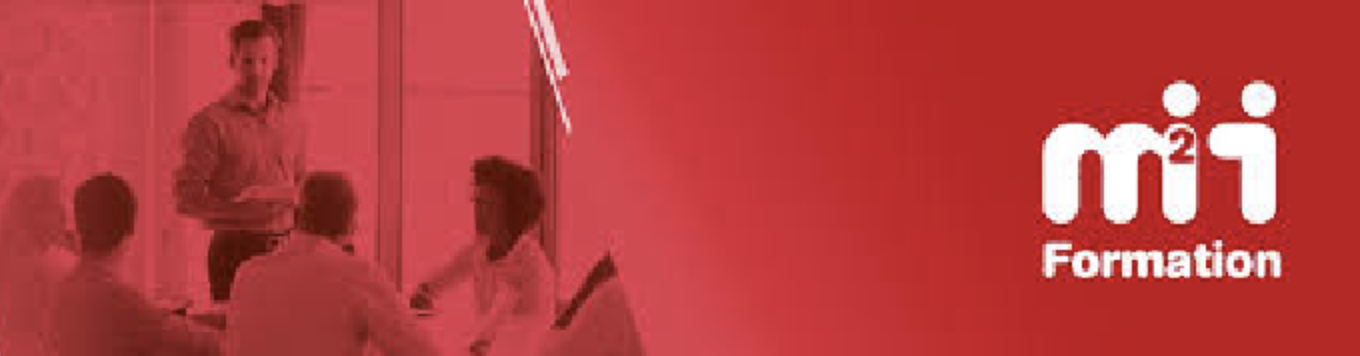
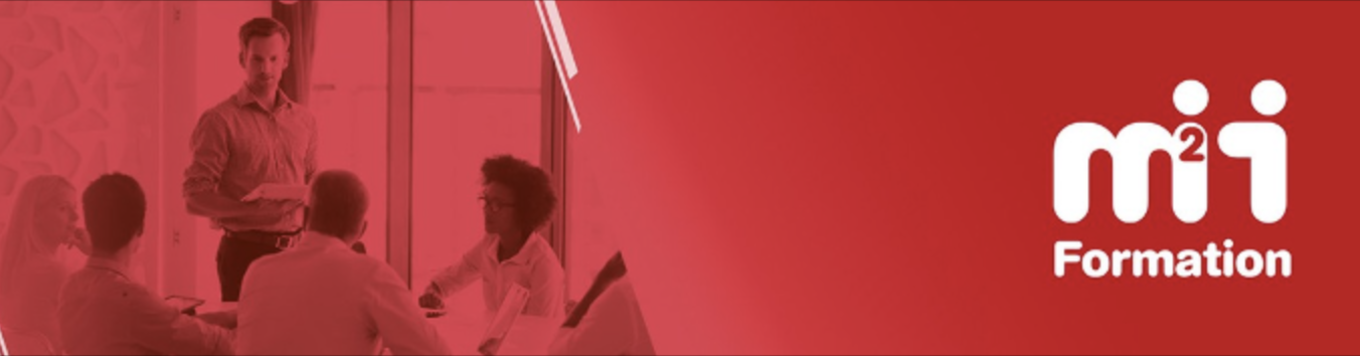
commit updated scripts

Changed region(s): [[0.0, 0.0, 1.0, 1.0], [0.7412, 0.2163, 0.9574, 0.8034]]

diff --git a/validation-tp/style.css b/validation-tp/style.css
@@ -46,7 +46,7 @@ button {
 /* ===================== Nav Bar ====================== */
 /* ==================================================== */
 .navbar {
-  background-color: #0071af !important;
+  background-color: #007daf !important;
 }
 .navbar .container-fluid {
   margin: 0.3rem !important;
@@ -78,7 +78,7 @@ button {
 }
 .navbar .navbar-nav .nav-link:hover {
   cursor: pointer;
-  box-shadow: 0px 1px 5px #f7f7f7;
+  box-shadow: 0px 0.5px 2px #f7f7f7;
   color: #141414;
   border: 0.05rem solid #f7f7f7;
   border-radius: 0.4rem;
@@ -87,8 +87,14 @@ button {
 /* ==================================================== */
 /* ====================== Body ======================== */
 /* ==================================================== */
+.body-banner {
+  background-repeat: no-repeat !important;
+  background-attachment: fixed !important;
+  border: #3188b8 0rem solid;
+}
 .carousel-item img {
   width: 100% !important;
+  border-radius: 0.4rem;
 }
 
 .footer-child label {
@@ -99,6 +105,7 @@ label span,
 .text-red {
   color: red;
 }
+
 .table-striped thead * {
   background-color: #d5d7da !important;
 }
@@ -117,7 +124,9 @@ label span,
 /* ====================== GRID ======================== */
 /* ==================================================== */
 .container-child {
-  border: 0.12rem solid gray;
+  background-color: #f7f7f7;
+  border: 0.05rem solid gray;
+  border-radius: 0.4rem;
   margin: 1rem;
 }
 
@@ -129,7 +138,8 @@ label span,
   border: none;
 }
 .body-text-child {
-  border: 0.12rem solid gray;
+  border: 0.07rem solid gray;
+  border-radius: 0.4rem;
   padding: 1rem;
 }
 .text {
@@ -141,7 +151,8 @@ label span,
   border: none;
 }
 .text-child {
-  border: 0.12rem solid gray;
+  border: 0.07rem solid gray;
+  border-radius: 0.4rem;
   padding: 1rem;
 }
 
@@ -153,10 +164,12 @@ label span,
   border: none;
 }
 .body-image-child {
-  border: 0.12rem solid gray;
+  border: 0.07rem solid gray;
+  border-radius: 0.4rem;
   padding: 0;
 }
 .body-image-child img {
+  border-radius: 0.4rem;
   width: 100%;
 }
 
@@ -164,11 +177,12 @@ label span,
   display: grid;
   grid-template-rows: 1.5fr 1fr;
   grid-auto-rows: 2rem;
-  grid-gap: 1rem;
+  grid-gap: 0.5rem;
   border: none;
 }
 .footer-child {
-  border: 0.12rem solid gray;
+  border: 0.07rem solid gray;
+  border-radius: 0.4rem;
   padding: 1rem;
 }
 
@@ -192,10 +206,6 @@ label span,
     padding: 0;
     border: none;
   }
-  .text-child {
-    border: 0.12rem solid gray;
-    padding: 1rem;
-  }
   .footer {
     display: grid;
     grid-template-rows: 1fr;
@@ -204,9 +214,11 @@ label span,
     grid-gap: 0rem;
   }
   .footer-child:nth-child(1) {
-    border: 0.12rem solid gray;
+    border: 0.07rem solid gray;
+    border-radius: 0.4rem 0 0 0.4rem;
   }
   .footer-child:nth-child(2) {
+    border-radius: 0 0.4rem 0.4rem 0;
     border-left: none;
   }
   .form-group {

diff --git a/validation-tp/index.html b/validation-tp/index.html
@@ -159,9 +159,9 @@
             visualiser la liste des stagiaires et en ajouter des nouveaux en
             cliquant sur le bouton "ajouter" qui nous enverra sur la page du
             formulaire. Lors de la soumission d'un nouveau stagiaire les
-            informations sont stocké dans le localStorage pour être envoyé dans
-            le tableau de la page "nos stagiaires" qui contient la liste de tous
-            les stagiaires. On peut ensuite visualiser les informations les
+            informations sont stockées dans le localStorage pour être envoyées
+            dans le tableau de la page "nos stagiaires" qui contient la liste de
+            tous les stagiaires. On peut ensuite visualiser les informations les
             concernant ou bien les supprimer.
           </p>
         </div>
@@ -188,13 +188,13 @@
       </div>
       <div class="container-child body-image">
         <div class="body-image-child">
-          <img src="images/img/js-img.png" alt="image1" />
+          <img src="images/img/m2i-img.png" alt="image1" />
         </div>
         <div class="body-image-child">
           <img src="images/img/salesforce-img.png" alt="image2" />
         </div>
         <div class="body-image-child">
-          <img src="images/img/crm-img.png" alt="image3" />
+          <img src="images/img/capgemini-img.png" alt="image3" />
         </div>
       </div>
 

diff --git a/validation-tp/showData/appToDisplayData.js b/validation-tp/showData/appToDisplayData.js
@@ -22,7 +22,7 @@ for (let i = 0; i < storedData.length; i++) {
 
   const showButton = document.createElement("button");
   showButton.innerHTML = `<i class="fa fa-eye"></i>`;
-  showButton.classList.add(...["btn", "btn-outline-success", "btn-sm", "m-1"]);
+  showButton.classList.add(...["btn", "btn-outline-info", "btn-sm", "m-1"]);
 
   deleteButton.addEventListener("click", function () {
     // Methode 1: getIndex ==> delete the index row ==> refresh the data ==> refresh the page

diff --git a/validation-tp/createData/formToGetData.html b/validation-tp/createData/formToGetData.html
@@ -132,7 +132,7 @@
           <div class="form-group m-2 mb-4 col-10">
             <button
               type="submit"
-              class="btn btn-outline-success mb-2 form-control"
+              class="btn btn-outline-info mb-2 form-control"
             >
               Ajouter
             </button>
